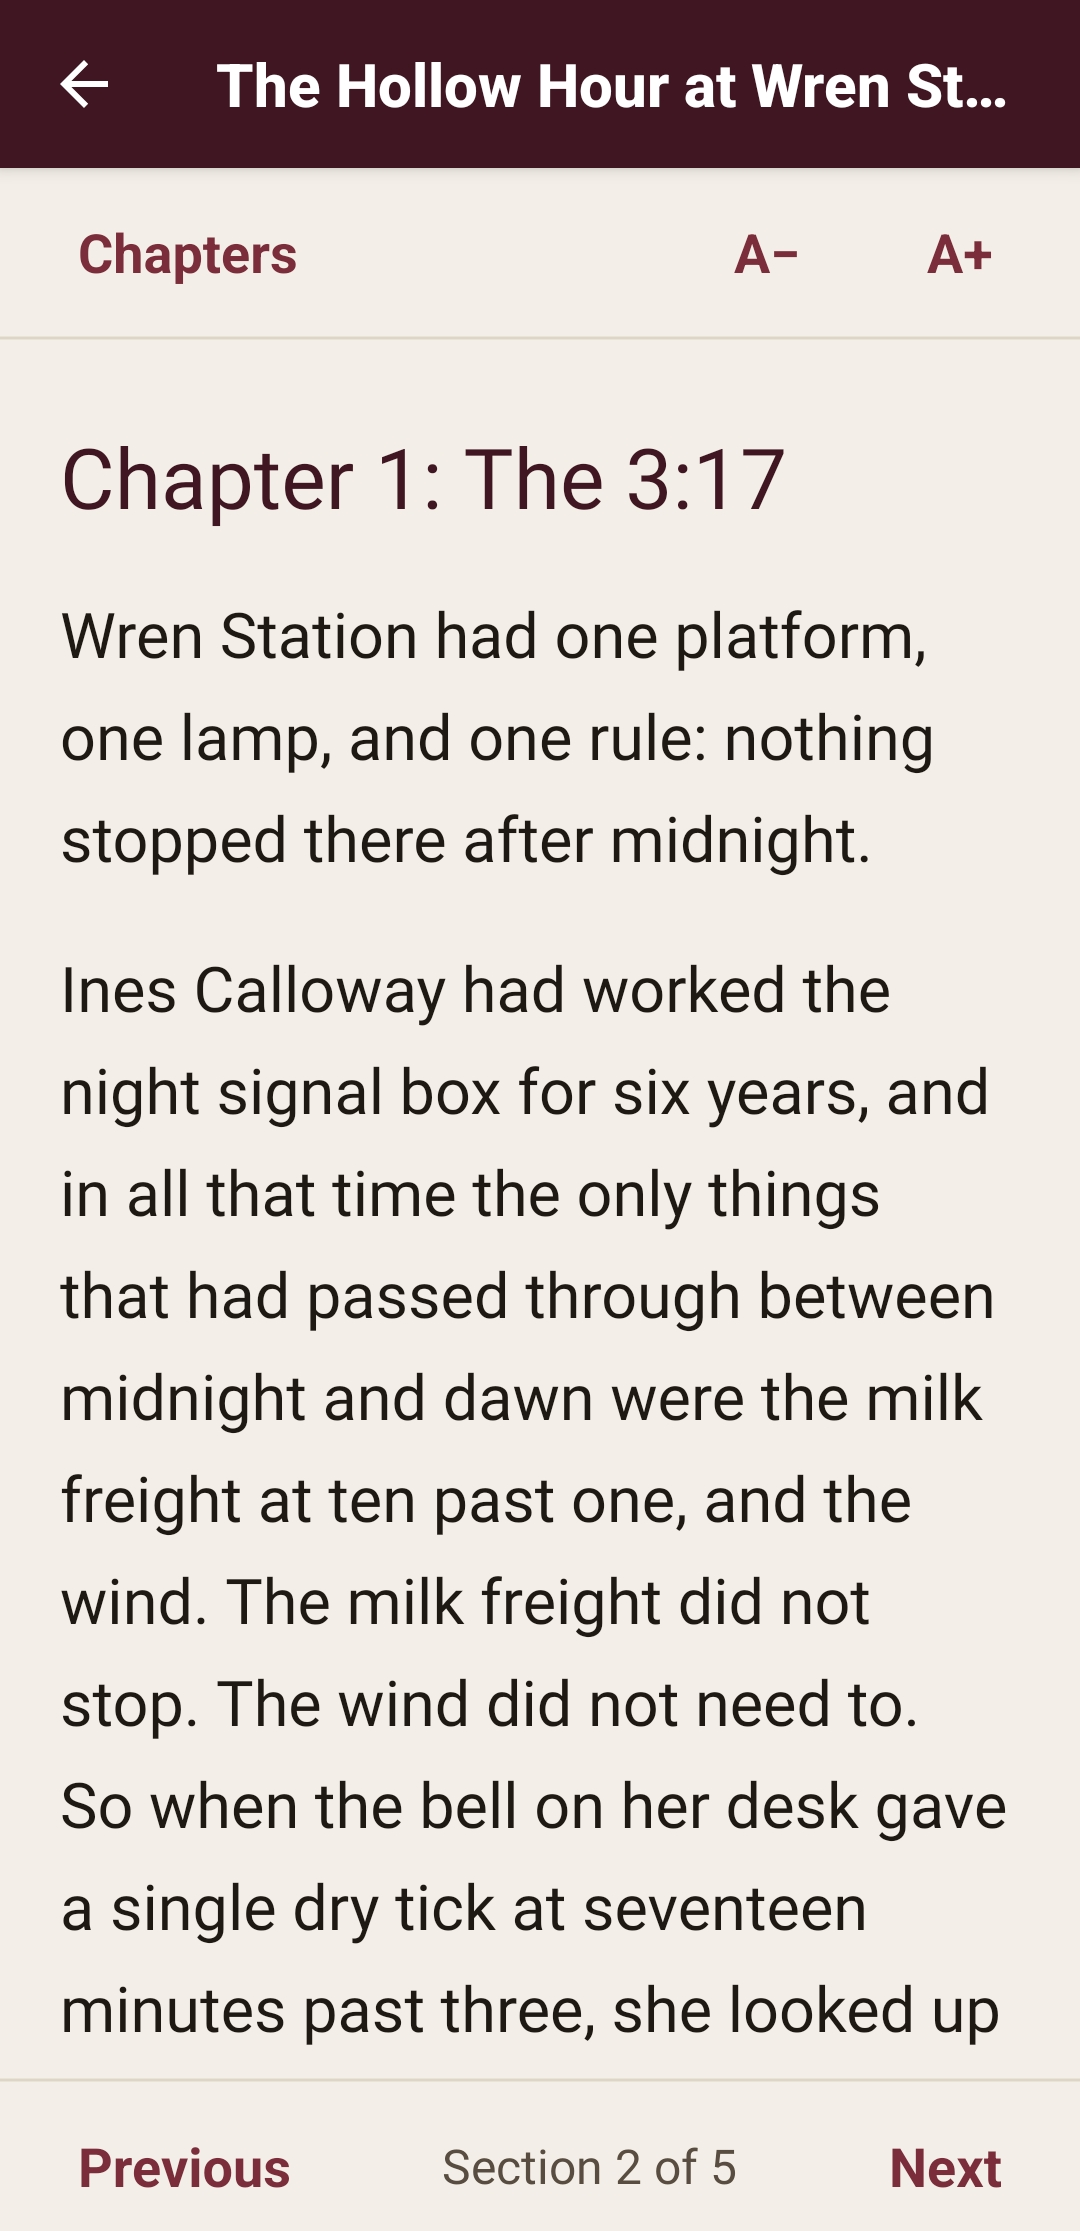
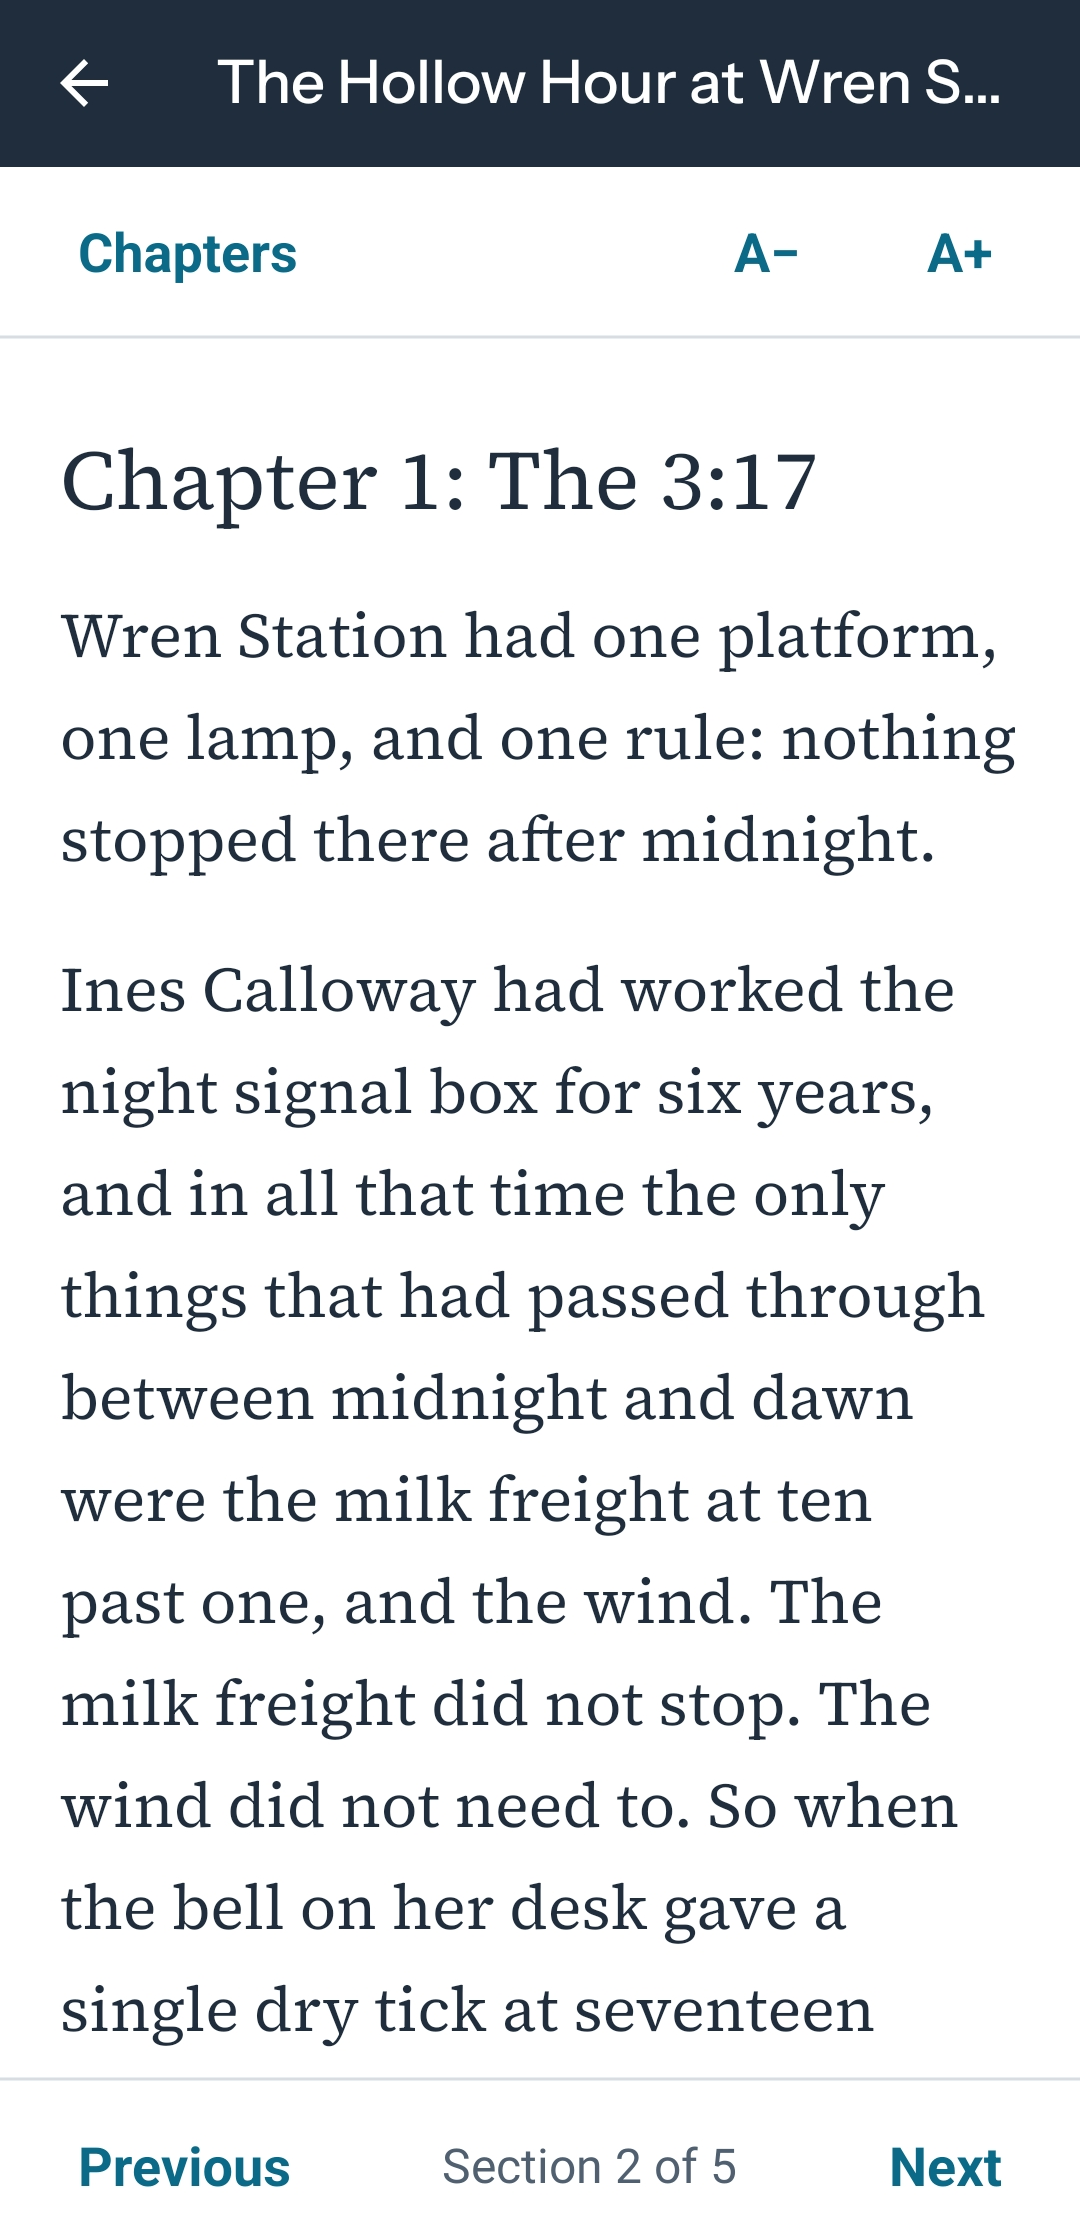
Booknice project screenshots re-uploaded.

diff --git a/src/style.css b/src/style.css
@@ -6,48 +6,57 @@
 Design tokens
 ========================================================================== */
 :root {
-    --font-display: "Inter", "Onest", ui-sans-serif, system-ui, -apple-system, "Segoe UI", sans-serif;
-    --font-body: "Onest", ui-sans-serif, system-ui, -apple-system, "Segoe UI", sans-serif;
+    --font-display: "Instrument Sans", ui-sans-serif, system-ui, -apple-system, "Segoe UI", sans-serif;
+    --font-body: "Instrument Sans", ui-sans-serif, system-ui, -apple-system, "Segoe UI", sans-serif;
 
-    --bg: #F2F5F6;
-    --surface: #FFFFFF;
-    --ink: #0E1A21;
-    --ink-2: #364852;
-    --muted: #566872;
-    --line: #DCE3E6;
-    --line-strong: #C3CED3;
+    /* The look: white page, cream panels, deep navy ink, and the original teal accent. */
+    --bg: #FFFFFF;
+    --surface: #FBF5EC;
+    --ink: #1F2D3D;
+    --ink-2: #3B4A5A;
+    --muted: #516070;
+    --line: #D7DDE3;
+    --line-strong: #B9C3CC;
 
     --accent: #0A7771;
     --accent-ink: #06524E;
     --accent-soft: #E2F2F0;
     --on-accent: #FFFFFF;
 
-    --inverse-bg: #0E1A21;
-    --inverse-ink: #F3F7F8;
-    --inverse-muted: #A9B8C1;
+    --inverse-bg: #1F2D3D;
+    --inverse-ink: #F3F6F8;
+    --inverse-muted: #B4C0CB;
     --inverse-line: transparent;
+    --on-dark-accent: #4FD1C4;
+    --on-dark-accent-hover: #7FE0D6;
+    --on-dark-eyebrow: #7FE0D6;
+    --on-dark-ink: #04201D;
 
-    --shot-shadow: 0 1px 2px rgba(14, 26, 33, .06), 0 18px 36px -22px rgba(14, 26, 33, .35);
+    --shot-shadow: 0 1px 2px rgba(31, 45, 61, .06), 0 18px 36px -22px rgba(31, 45, 61, .35);
 }
 
 html.dark {
-    --bg: #080F1E;
-    --surface: #0E1829;
+    --bg: #121B27;
+    --surface: #1A2636;
     --ink: #EAF0F4;
-    --ink-2: #C2CED7;
-    --muted: #8FA0AD;
-    --line: #1B283C;
-    --line-strong: #2A3B54;
+    --ink-2: #C4CFD9;
+    --muted: #93A3B2;
+    --line: #263649;
+    --line-strong: #34485E;
 
     --accent: #4FD1C4;
     --accent-ink: #7FE0D6;
     --accent-soft: #0F2E33;
     --on-accent: #04201D;
 
-    --inverse-bg: #0F1E30;
+    --inverse-bg: #1A2A3D;
     --inverse-ink: #EAF0F4;
-    --inverse-muted: #9FB0BD;
-    --inverse-line: #223550;
+    --inverse-muted: #A9B8C6;
+    --inverse-line: #2A3F57;
+    --on-dark-accent: #4FD1C4;
+    --on-dark-accent-hover: #7FE0D6;
+    --on-dark-eyebrow: #7FE0D6;
+    --on-dark-ink: #04201D;
 
     --shot-shadow: 0 1px 2px rgba(0, 0, 0, .4), 0 18px 36px -22px rgba(0, 0, 0, .8);
 }
@@ -254,7 +263,7 @@ html.dark .icon-moon {
     flex: none;
     width: 4.5rem;
     height: 4.5rem;
-    border-radius: 16px;
+    border-radius: 8px;
     object-fit: cover;
     background: var(--surface);
     border: 1px solid var(--line-strong);
@@ -431,10 +440,10 @@ html.dark .icon-moon {
     align-items: center;
     justify-content: center;
     gap: .5rem;
-    min-height: 2.75rem;
-    padding: .65rem 1.1rem;
+    min-height: 2.5rem;
+    padding: .55rem 1.1rem;
     border: 1px solid transparent;
-    border-radius: 8px;
+    border-radius: 4px;
     font-family: inherit;
     font-size: .9375rem;
     font-weight: 600;
@@ -445,12 +454,12 @@ html.dark .icon-moon {
 }
 
 .btn--primary {
-    background: var(--ink);
-    color: var(--bg);
+    background: var(--accent);
+    color: var(--on-accent);
 }
 
 .btn--primary:hover {
-    background: var(--accent);
+    background: var(--accent-ink);
     color: var(--on-accent);
 }
 
@@ -691,7 +700,7 @@ html.dark .icon-moon {
 /* Screenshots render at their natural aspect ratio: nothing is cropped or zoomed */
 .project__shot {
     border: 1px solid var(--line-strong);
-    border-radius: 12px;
+    border-radius: 6px;
     background: var(--surface);
     box-shadow: var(--shot-shadow);
     overflow: hidden; /* only clips the rounded corners */
@@ -724,7 +733,7 @@ html.dark .icon-moon {
     max-width: 120px;
     height: auto;
     border: 1px solid var(--line-strong);
-    border-radius: 16px;
+    border-radius: 8px;
     box-shadow: 0 10px 28px rgba(0, 0, 0, .45);
 }
 
@@ -911,13 +920,13 @@ html.dark .icon-moon {
     margin-top: 5.5rem;
     padding: clamp(2rem, 5vw, 3.5rem);
     border: 1px solid var(--inverse-line);
-    border-radius: 20px;
+    border-radius: 8px;
     background: var(--inverse-bg);
     color: var(--inverse-muted);
 }
 
 .contact .eyebrow {
-    color: #7FE0D6;
+    color: var(--on-dark-eyebrow);
 }
 
 .stream .contact h2 {
@@ -938,13 +947,13 @@ html.dark .icon-moon {
 }
 
 .btn--on-dark {
-    background: #4FD1C4;
-    color: #04201D;
+    background: var(--on-dark-accent);
+    color: var(--on-dark-ink);
     overflow-wrap: anywhere;
 }
 
 .btn--on-dark:hover {
-    background: #7FE0D6;
+    background: var(--on-dark-accent-hover);
 }
 
 .footer {

diff --git a/index.html b/index.html
@@ -5,7 +5,7 @@
 	<meta charset="UTF-8" />
 	<meta name="viewport" content="width=device-width, initial-scale=1.0" />
 	<meta name="color-scheme" content="light dark">
-	<meta name="theme-color" content="#F2F5F6">
+	<meta name="theme-color" content="#FFFFFF">
 
 	<!-- Dark Mode Prevention Flash Script -->
 	<script>
@@ -17,7 +17,7 @@
 			if (stored === 'dark' || (stored === null && prefersDark)) {
 				document.documentElement.classList.add('dark');
 				var m = document.querySelector('meta[name="theme-color"]');
-				if (m) m.setAttribute('content', '#080F1E');
+				if (m) m.setAttribute('content', '#121B27');
 			} else {
 				document.documentElement.classList.remove('dark');
 			}
@@ -64,7 +64,7 @@
 	<link rel="preconnect" href="https://fonts.googleapis.com">
 	<link rel="preconnect" href="https://fonts.gstatic.com" crossorigin>
 	<link
-		href="https://fonts.googleapis.com/css2?family=Inter:opsz,wght@14..32,500..700&family=Onest:wght@400..700&display=swap"
+		href="https://fonts.googleapis.com/css2?family=Instrument+Sans:wght@400..700&display=swap"
 		rel="stylesheet">
 
 	<!-- Structured Data (JSON-LD) -->
@@ -142,7 +142,7 @@
 			</div>
 
 			<p class="rail__bio">
-				I perform AI-assisted engineering and best practices building reliable and maintainable software.
+				I perform AI-assisted engineering while following best practices to build reliable and maintainable software.
 			</p>
 
 			<!-- Quick Links -->
@@ -557,7 +557,7 @@
 			function syncTheme() {
 				var isDark = root.classList.contains('dark');
 				themeBtn.setAttribute('aria-pressed', String(isDark));
-				if (themeMeta) themeMeta.setAttribute('content', isDark ? '#080F1E' : '#F2F5F6');
+				if (themeMeta) themeMeta.setAttribute('content', isDark ? '#121B27' : '#FFFFFF');
 			}
 			syncTheme();
 			themeBtn.addEventListener('click', function () {
